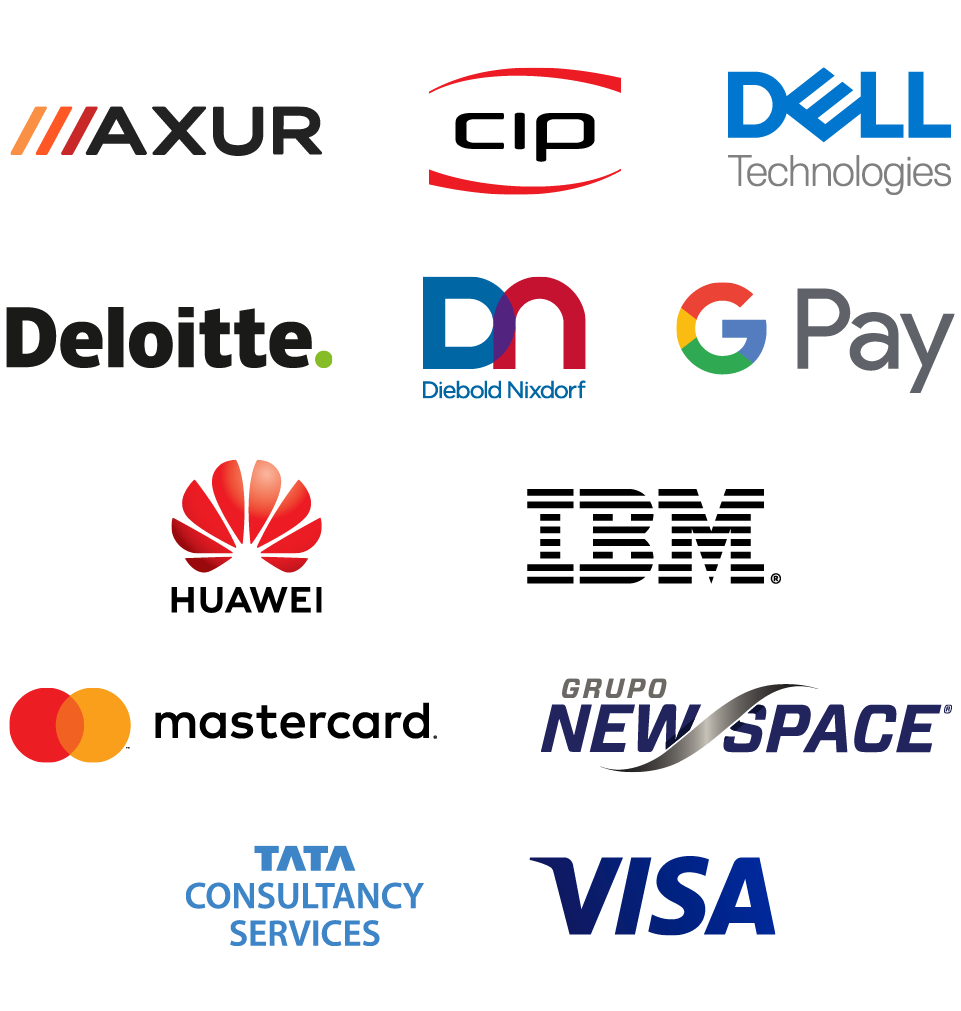
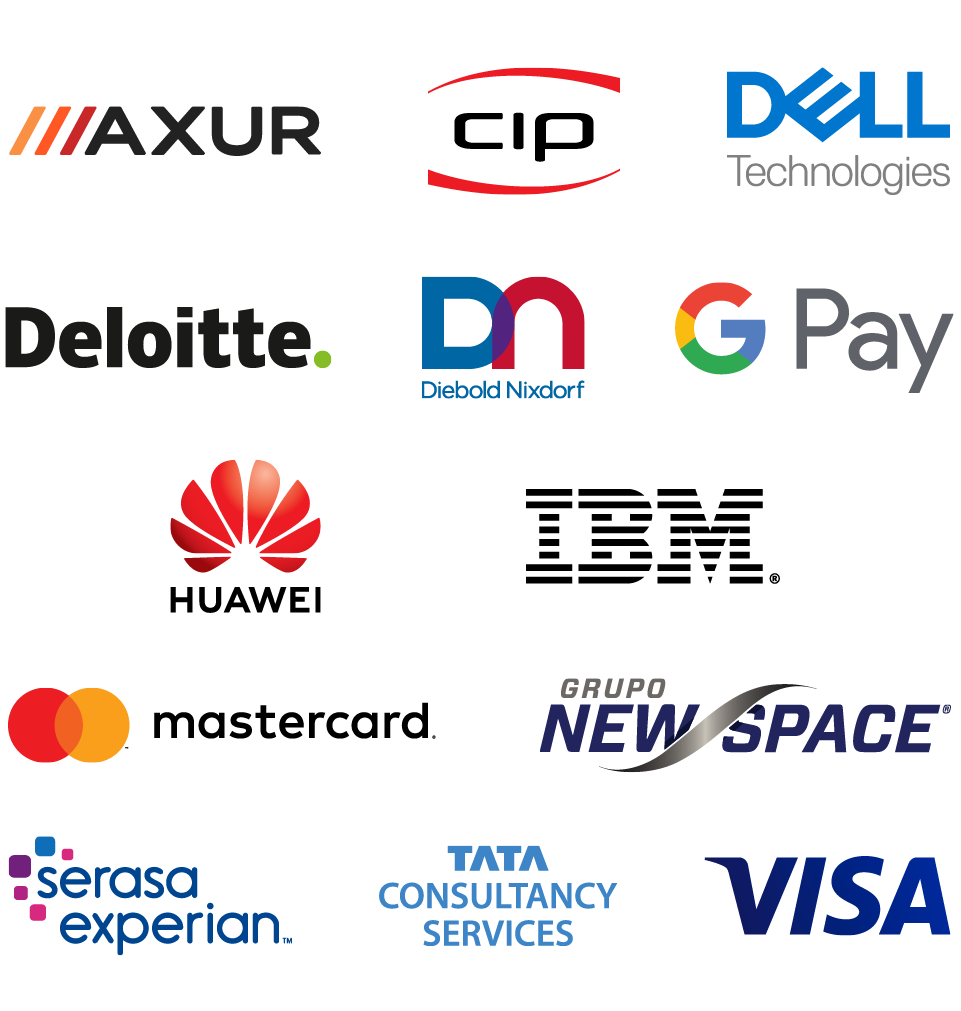
sponsors were updated

diff --git a/src/app/modules/public/components/sponsors/sponsors.component.html b/src/app/modules/public/components/sponsors/sponsors.component.html
@@ -23,14 +23,6 @@
   i18n-alt
   i18n-title>
 <hr class="app-sponsors-hr my-3 my-lg-5">
-<h3 class="app-sponsors-h3 mb-3" i18n>Bronze</h3>
-<img
-  src="../assets/images/shared/sponsors/app-sponsors-bronze.png"
-  alt="Patrocinadores bronze"
-  title="Patrocinadores bronze"
-  i18n-alt
-  i18n-title>
-<hr class="app-sponsors-hr my-3 my-lg-5">
 <h3 class="app-sponsors-h3 mb-3" i18n>Parceiros estratégicos</h3>
 <img
   src="../assets/images/shared/sponsors/app-sponsors-strategic-partners.png"
